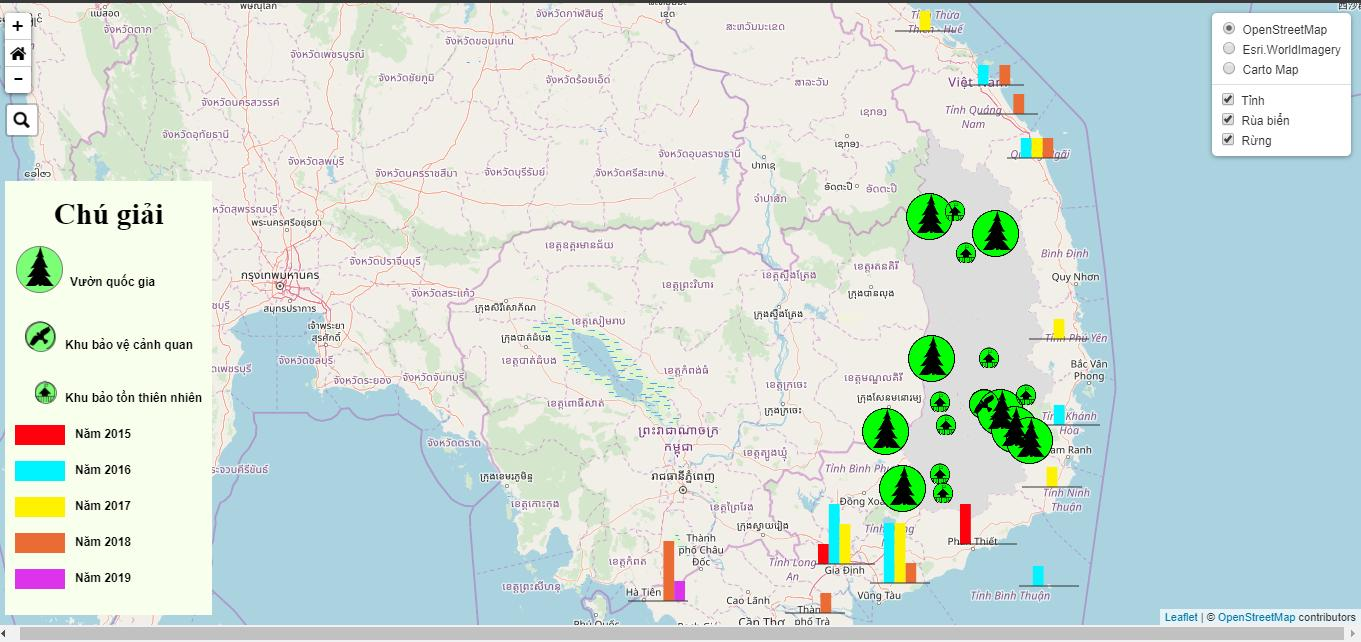
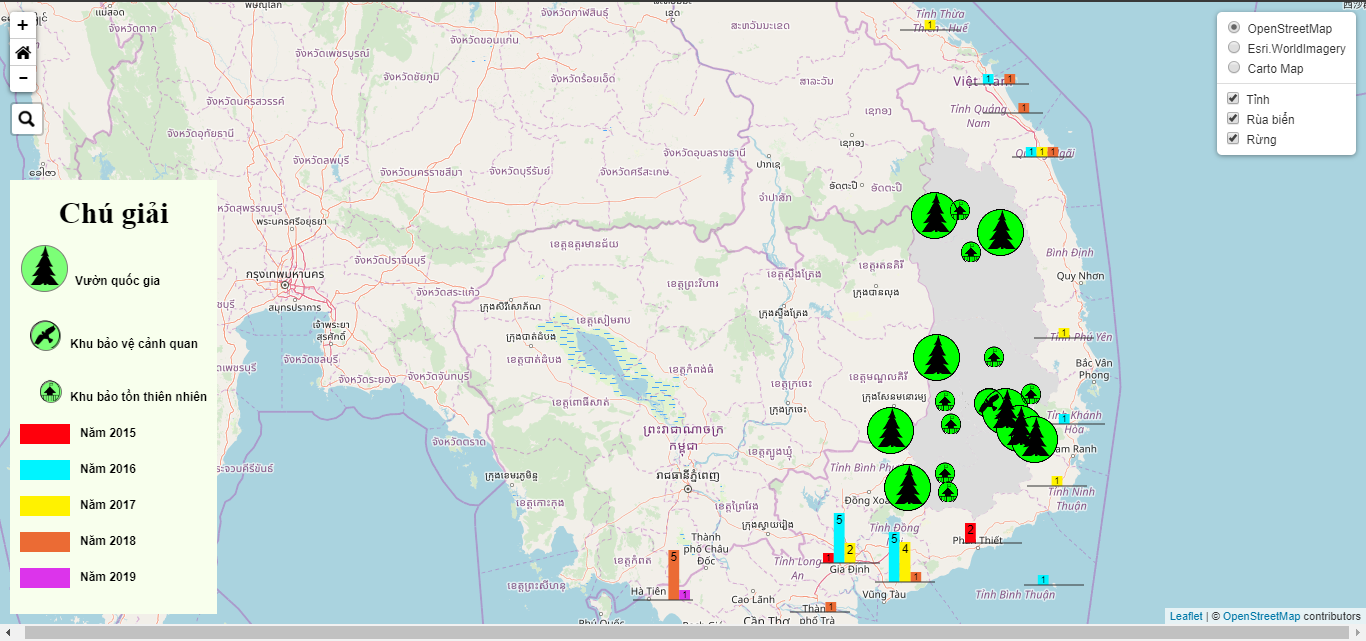
WebGIS_Forest_TN

diff --git a/styles.css b/styles.css
@@ -2,7 +2,7 @@ input[type="number"] {
   max-width: 80%;
 }
 
-div.outer {
+.outer {
   position: fixed;
   top: 0px;
   left: 0;
@@ -48,12 +48,21 @@ h1, h2, h3, h4 { font-weight: 400; }
   background-color: white;
 }
 
-.label_legend {
-    color: blue;
+.label_legend, .label_legend_rec {
+    color: black;
     font-weight: bold;
     margin-left: 10px;
     display: inline-block;
 }
+
+.label_legend {
+    margin-left: 10px;
+}
+
+.label_legend_rec {
+    margin-left: 60px;
+}
+
 #overlay0 {
   position: absolute;
   background-color: #00FF01;
@@ -100,4 +109,31 @@ h1, h2, h3, h4 { font-weight: 400; }
   position: relative;
   width: fit-content;
   margin: 0;
+}
+
+#rec1, #rec2, #rec3, #rec4, #rec5{
+    position: absolute;
+    height: 20px;
+    width: 50px;
+    z-index: -2;
+}
+
+#rec1 {
+    background-color: #ff000c;
+}
+
+#rec2 {
+    background-color: #00f4ff;
+}
+
+#rec3 {
+    background-color: #fff200;
+}
+
+#rec4 {
+    background-color: #008514;
+}
+
+#rec5 {
+    background-color: #dc34eb;
 }

diff --git a/README.md b/README.md
@@ -3,6 +3,7 @@
 ## Note 1
 + Note 1.0: Đã upload dữ liệu lên Geoserver và view lên Web để nhìn tổng quan
 <img src="img/Note_img/Note_1.png" width="50%">
++ <a href='https://nguyenduclam.github.io/'>Link Demo</a>
 
 ### Note 1.1: Quay lại ý tưởng Leaflet và Geoserver
 + Hoàn thành tương đương như R Shiny Leaflet
@@ -43,3 +44,9 @@
     + Không cần thông qua javascript
     + Hình ảnh vẫn chưa khắc phục (phải chuyển quan base 64)
 <img src="img/Note_img/Note_5.png" width="50%">
+
+## Note 6
++ Note 6:
+    + Thêm Chart cho bộ dữ liệu
+    + Không thể bật tắt Chart (do LayerGroup không hỗ trợ)
+<img src="img/Note_img/Note_6.png" width="50%">
